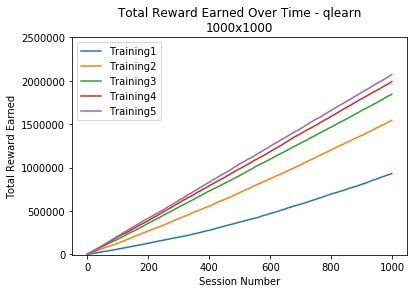
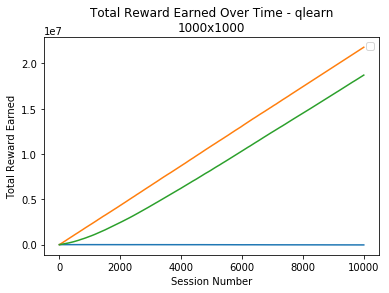
Added capability to do comprehensive testing. This allows to test all of the available agents against a specific set of parameters. It will then plot them all on the same graph.

diff --git a/framework.py b/framework.py
@@ -15,7 +15,7 @@ from agents.randomAgent import randomAgent
 from agents.OptimalPolicyAgent import optimalAgent
 from agents.QLearnAgent import qLearnAgent
 
-
+agents = ['RANDOM', 'OPTIMALPOLICY', 'QLEARN']
 class framework:
     
     def __init__(self, fileName='params', debug = False):
@@ -28,57 +28,66 @@ class framework:
     
     def train(self):
         dungeon = sim(self.goalReward, self.stepReward, self.stepPunishment, self.xLength, self.yLength)
-        # select agent
-        if self.agent == 'RANDOM':
-            agent = randomAgent(learningRate=self.learning_rate, discount=self.discount, xLength=self.xLength, yLength=self.yLength)
-        elif self.agent == 'OPTIMALPOLICY':
-            agent = optimalAgent(learningRate=self.learning_rate, discount=self.discount, xLength=self.xLength, yLength=self.yLength)
-        elif self.agent == 'QLEARN':
-            agent = qLearnAgent(self.learning_rate, self.discount, self.xLength, self.yLength, self.iterations, self.explorationRate)
+        agents = []
+        if self.comprehensive_test:
+            agents = ['RANDOM', 'OPTIMALPOLICY', 'QLEARN']
         else:
-            print("Invalid selection. Please try again.")
-            return
-    
-        # setup simulation
-        
-        # main loop for episodes
-        for z in range(self.trainingRuns):
-            total_global_reward = 0
+            agents.append(self.agent)
             
-            x_session = []
-            y_total_reward = []
-            for i in range(self.iterations):
-                # main loop for sessions in each episode
-                dungeon.reset()
+        for w in range(len(agents)):
+        # select agent
+            self.agent = agents[w]
+            if self.agent == 'RANDOM':
+                agent = randomAgent(learningRate=self.learning_rate, discount=self.discount, xLength=self.xLength, yLength=self.yLength)
+            elif self.agent == 'OPTIMALPOLICY':
+                agent = optimalAgent(learningRate=self.learning_rate, discount=self.discount, xLength=self.xLength, yLength=self.yLength)
+            elif self.agent == 'QLEARN':
+                agent = qLearnAgent(self.learning_rate, self.discount, self.xLength, self.yLength, self.iterations, self.explorationRate)
+            else:
+                print("Invalid selection. Please try again.")
+                return
+        
+            # setup simulation
+            
+            # main loop for episodes
+            for z in range(self.trainingRuns):
+                total_global_reward = 0
                 
-                total_reward = 0 # Score keeping
-                
-                for j in range(self.sessionLength):
-                    old_state = dungeon.getState() # Store current state
-                    action = agent.get_next_action(old_state) # Query agent for the next action
-                    reward, new_state = dungeon.update(action, old_state) # Take action, get new state and reward
-                    if reward == None or new_state == None:
-                        print("There was an error with one of the actions chosen.")
-                        return
-                    agent.update(old_state, new_state, action, reward) # Let the agent update internals
-                    if self.debug:
-                        print(agent.qTable)
-                        test = input()
-                    total_reward += reward # Keep score
+                x_session = []
+                y_total_reward = []
+                for i in range(self.iterations):
+                    # main loop for sessions in each episode
+                    dungeon.reset()
                     
-                    if reward == self.goalReward:
-                        print("\nWe made it to the goal on episode "+str(i)+" and session "+str(j))
-                        break
-                print("The total reward for episode "+str(i)+" session "+str(j)+" is "+str(total_reward)+'\n')
-                total_global_reward += total_reward
-                x_session.append(i)
-                y_total_reward.append(total_global_reward)
-            print("The training is over! The total global reward is "+str(total_global_reward))
-            plt.plot(x_session, y_total_reward, Label = 'Training'+str(z+1))
+                    total_reward = 0 # Score keeping
+                    
+                    for j in range(self.sessionLength):
+                        old_state = dungeon.getState() # Store current state
+                        action = agent.get_next_action(old_state) # Query agent for the next action
+                        reward, new_state = dungeon.update(action, old_state) # Take action, get new state and reward
+                        if reward == None or new_state == None:
+                            print("There was an error with one of the actions chosen.")
+                            return
+                        agent.update(old_state, new_state, action, reward) # Let the agent update internals
+                        if self.debug:
+                            print(agent.qTable)
+                            test = input()
+                        total_reward += reward # Keep score
+                        
+                        if reward == self.goalReward:
+                            print("\nWe made it to the goal on episode "+str(i)+" and session "+str(j))
+                            break
+                    print("The total reward for episode "+str(i)+" is "+str(total_reward)+'\n')
+                    total_global_reward += total_reward
+                    x_session.append(i)
+                    y_total_reward.append(total_global_reward)
+                print("The training is over! The total global reward is "+str(total_global_reward))
+                plt.plot(x_session, y_total_reward, Label = self.agent+' Training'+str(z+1))
             
         plt.xlabel('Session Number')
         plt.ylabel('Total Reward Earned')
-        plt.ylim(bottom=-5000, top=2500000)
+        if not self.comprehensive_test:
+            plt.ylim(top=(self.goalReward+2*self.sessionLength)*self.iterations)
         plt.title('Total Reward Earned Over Time - '+str(self.agent.lower())+'\n'+str(self.xLength)+'x'+str(self.yLength))
         plt.legend()
         plt.savefig(str("results/"+self.agent.lower())+'AgentTrainingResults'+str(self.xLength)+'x'+str(self.yLength)+'.png', bbox_inches = 'tight')
@@ -103,6 +112,7 @@ class framework:
                     self.stepPunishment = paramsMap['stepPunishment']
                     self.trainingRuns = paramsMap['training_runs']
                     self.explorationRate = paramsMap['exploration_rate']
+                    self.comprehensive_test = bool(paramsMap['comprehensive_test'])
             params.close()
             return True
                     
